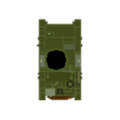
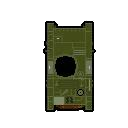
Улучшен интелект ботов

diff --git a/main.py b/main.py
@@ -68,42 +68,44 @@ class App:
         os.remove(tmp_path)
 
     def begin_game(self):
-        global end, bots
+        global end, bots, enemy, allied, player
         if self.selected_map != "":
             self.Maps.load_map()
             self.Ui.Labels.new("health", (-self.maxsize[0] / 2.5, self.maxsize[1] / 2.5), "center", "Здоровье: ", "black", ("Arial", 20, "bold"), group="game")
             self.Ui.Labels.new("recharge", (-self.maxsize[0] / 2.5, self.maxsize[1] / 2.5 - 25), "center", "Боеприпасы: ", "black", ("Arial", 20, "bold"), group="game")
             cls = self.Machines.get(self.selected_machine).cls
             if cls == "Plane":
-                self.player = PlayerPlane(self, self.selected_machine)
+                player = PlayerPlane(self, self.selected_machine)
             else:
-                self.player = PlayerTank(self, self.selected_machine)
-            self.player.link_keys()
+                player = PlayerTank(self, self.selected_machine)
+            player.link_keys()
             y = self.maxsize[1] / 2.5 - 50
             for i, bot in enumerate(self.Bots.allied_bots):
                 Bot = BotTankClass(self, bot["machine"], "allien", bot["intelect"], bot["name"])
-                Bot.goto(-self.maxsize[0] / 2.5 + 50, y + 50 * i)
+                Bot.goto(-self.maxsize[0] / 2.5 + 60, y - 60 * i)
                 Bot.machine_class.angle = 90
                 Bot.machine_class.angle_tower = 90
                 bots.append(Bot)
+                allied.append(Bot)
             for i, bot in enumerate(self.Bots.enemy_bots):
                 Bot = BotTankClass(self, bot["machine"], "enemy", bot["intelect"], bot["name"])
-                Bot.goto(self.maxsize[0] / 2.5 - 50, y + 50 * i)
+                Bot.goto(self.maxsize[0] / 2.5 - 60, y - 60 * i)
                 Bot.machine_class.angle = 270
                 Bot.machine_class.angle_tower = 270
                 bots.append(Bot)
+                enemy.append(Bot)
             self.Screen.onkeypress(self.Scenes.leave_game_window, "Escape")
             self.run_game = True
             end = time.time()
             while self.run_game:
                 for bot in bots:
                     bot.move()
-                self.player.move()
+                player.move()
                 self.move_bullet()
                 self.draw_bullet()
                 self.check_colision()
-                self.Ui.Labels.change_value("health", "text", f"Здоровье: {self.player.health}")
-                self.Ui.Labels.change_value("recharge", "text", f"Перезарядка {round(self.player.recharge, 1)}" if self.player.recharge != 0 or self.player.recharge < 0  else f"Боеприпасы: {int(self.player.capacity)}")
+                self.Ui.Labels.change_value("health", "text", f"Здоровье: {player.health}")
+                self.Ui.Labels.change_value("recharge", "text", f"Перезарядка {round(player.recharge, 1)}" if player.recharge != 0 or player.recharge < 0  else f"Боеприпасы: {int(player.capacity)}")
                 time.sleep(1 / self.fps)
                 self.update()
                 end = time.time()
@@ -137,7 +139,7 @@ class App:
         for bullet in self.bullets:
             self.bullet_drawer.goto(bullet["x"], bullet["y"])
             self.bullet_drawer.pendown()
-            self.bullet_drawer.setheading(bullet["angle"])
+            self.bullet_drawer.setheading(bullet["angle"] - 90)
             self.bullet_drawer.pensize(bullet["size"][1])
             self.bullet_drawer.forward(bullet["size"][0])
             self.bullet_drawer.penup()
@@ -282,7 +284,7 @@ class PlayerPlane:
         self.start = 0
         self.forward = False
         self.back = False
-        self.x = 0
+        self.x = -self.App.maxsize[0] / 2.5 + 50
         self.angle_speed = 0
         self.boost = 0 
         self.speed = 0
@@ -440,7 +442,6 @@ class PlayerPlane:
         self.App.Screen.onkeyrelease(None, "d")
         self.App.Screen.onkeypress(None, "a")
         self.App.Screen.onkeyrelease(None, "a")
-        self.App.Screen.onscreenclick(None, 1)
 
 class PlayerTank:
 
@@ -454,7 +455,7 @@ class PlayerTank:
         self.y = 0
         self.forward = False
         self.back = False
-        self.x = 0
+        self.x = -self.App.maxsize[0] / 2.5 + 30
         self.angle_speed = 0
         self.boost = 0 
         self.speed = 0
@@ -485,7 +486,7 @@ class PlayerTank:
         self.img_tower = turtle.Turtle()
         self.img_tower.penup()
         self.img_tower.speed(0)
-        self.tower_rotate_speed = self.data.tower_rotate_speed
+        self.tower_rotate_speed = self.data.tower_rotate_speed / 1.5
         self.x_tower_ofs = self.data.tower_x_offset
         self.y_tower_ofs = self.data.tower_y_offset
 
@@ -506,7 +507,7 @@ class PlayerTank:
                 for i in range(shell):
                     x = self.x + dist * math.sin(angle_rad) * i
                     y = self.y + dist * math.cos(angle_rad) * i
-                    self.App.new_bullet("allien", self.weapon["armor_projectile"], y_speed, x_speed, y, x, self.weapon["mass"], self.angle)
+                    self.App.new_bullet("allien", self.weapon["armor_projectile"], y_speed, x_speed, y, x, self.weapon["mass"], self.angle_tower)
                 used_bullet = shell
             else:
                 dist = 50 / int(self.weapon["shell_for_second"])
@@ -568,8 +569,8 @@ class PlayerTank:
         world_ofs_y = self.x_tower_ofs * math.sin(rad) + self.y_tower_ofs * math.cos(rad)
         tower_world_x = self.x + world_ofs_x
         tower_world_y = self.y + world_ofs_y
-        dx = event.x - (tower_world_x + self.App.maxsize[0] / 2)
-        dy = (self.App.maxsize[1] / 2 - event.y) - tower_world_y
+        dx = event.x - tower_world_x - self.App.maxsize[0] / 2
+        dy = self.App.maxsize[1] / 2 - event.y - tower_world_y
         self.move_tower(math.degrees(math.atan2(dx, dy)))
 
     def normalize_angle(self, angle):
@@ -655,67 +656,79 @@ class PlayerTank:
         canvas = self.App.Screen.getcanvas()
         canvas.bind("<Motion>", None)
 
-class BotTankClass:
-    targer = {"name": None,
-              "x": 0,
-              "y": 0}
-    free_to_action = True
-    main_action = None
-    action = None
-    step = -1
-    repeat = 0
+class event:
+    def __init__(self, x, y):
+        self.x = x
+        self.y = y
 
+class BotTankClass:
     def __init__(self, App, machine_name, team, intelect, name):
+        self.App = App
         self.machine_class = PlayerTank(App, machine_name)
         self.intelect = intelect
+        self.targer = None
+        self.free_to_action = True
+        self.main_action = None
+        self.action = self.nothing 
+        self.step = -1
+        self.repeat = 50
+        self.can_shoot = False
+        self.team = team
+        if self.intelect == 2:
+            self.machine_class.weapon["recharge"] *= 0.75
+            self.machine_class.speed_for_second *= 1.5
+        elif self.intelect == 1:
+            self.machine_class.weapon["recharge"] *= 0.9
 
-    def go_to_enemy():
+    def go_to_enemy():  
         pass
 
     def rotate_to_targer():
         pass
 
-    def rotate_tower_to_enemy():
-        pass
+    def nothing(self, nothing = "nothing"):
+        pass #неожиданно
 
-    def get_targer():
-        targer_bot = random(bots)
-        targer = {
-            "name": targer_bot["name"],
-            "x": targer_bot.machine_class.x,
-            "y": targer_bot.machine_class.y
-        }
+    def get_targer(self, two_self = None):
+        if not self.targer == None:
+            return
+        if self.team == "enemy":
+            self.targer = random.choice(allied + [player])
+        else:
+            self.targer = random.choice(enemy)
 
-    def get_and_rotate():
+    def help_to_allies(self):
         pass
 
     def shoot(self):
         self.machine_class.shoot(0, 0)
 
-    def slow_down():
-        pass
+    def forward(self):
+        self.machine_class.do_up_speed()
+
+    def backward(self):
+        self.machine_class.do_slow_down()
+
+    def stop(self):
+        self.machine_class.stop()
 
     def goto(self, x, y):
         self.machine_class.goto(x, y)
 
     def rotate_right(self):
-        self.machine_class.right
-        self.repeat = 200
+        self.machine_class.right()
 
     def rotate_left(self):
-        self.machine_class.left
-        self.repeat = 200
+        self.machine_class.left()
 
     def stop_rotate(self):
-        self.machine_class.stop_rotate
-        self.repeat = 200
+        self.machine_class.stop_rotate()
 
-    def check_is_rotate(self):
-        if self.machine_class.move_tower(self.machine_class.angle_tower):
-            self.repeat = -1
-        else:
-            self.get_and_rotate(self.targer["x"], self.targer["y"])
-            self.repeat = 1000
+    def check_is_rotate(self, two_self = None):
+        if hasattr(self.targer, 'machine_class'):
+                self.machine_class.get_and_rotate(event(self.targer.machine_class.x + (self.App.maxsize[0] / 2), (self.App.maxsize[1] / 2) - self.targer.machine_class.y))
+                return
+        self.machine_class.get_and_rotate(event(self.targer.x + (self.App.maxsize[0] / 2), (self.App.maxsize[1] / 2) - self.targer.y))
 
     def shoot_to_enemy(self):
         self.main_action = self.shoot_to_enemy
@@ -723,30 +736,45 @@ class BotTankClass:
             self.step = 0
             return
         if self.step == 1:
-            self.action = self.check_is_rotate
-            self.repeat = 1000
+            self.action = self.get_targer
+            self.repeat = 0   
         if self.step == 2:
+            self.action = self.check_is_rotate
+            self.repeat = 200
+        if self.step == 3:
             self.shoot()
             self.step = -1
 
-
-    stupid = [[go_to_enemy, False], [shoot, False], [rotate_right, False], [rotate_left, False]]
-    normal = [[go_to_enemy, False], [stop_rotate, False]]
-    great = [[shoot_to_enemy, False]]
+    stupid = [[shoot_to_enemy, 0], [go_to_enemy, 0], [shoot, 0], [rotate_right, 150], [stop_rotate, 5], [rotate_left, 150], [nothing, 200]]
+    normal = [[shoot_to_enemy, 0], [go_to_enemy, 0], [backward, 100], [forward, 150]]
+    great = [[help_to_allies, 0]]
 
     def move(self):
+        if (not self.action == self.nothing) and self.step == -1 and ((self.intelect == 2 and self.machine_class.recharge == 0) or (self.intelect == 1 and random.choice(1, 2, 3) == 1)):
+            self.can_shoot = True
+        else:
+            self.can_shoot = False
         if self.repeat >= 0:
             self.repeat -= 1
+            self.action(self)
         elif self.step == -1:
-            if self.intelect == 0:
-                self.action = random.choice(self.stupid)
-                self.action[0]()
+            if self.can_shoot:
+                self.shoot_to_enemy()
+            elif self.intelect == 0:
+                action_w_repeat = random.choice(self.stupid)
+                self.action = action_w_repeat[0]
+                self.repeat = action_w_repeat[1]
+                self.action(self)
             elif self.intelect == 1:
-                self.action = random.choice(self.normal)
-                self.action[0]()
+                action_w_repeat = random.choice(self.normal)
+                self.action = action_w_repeat[0]
+                self.repeat = action_w_repeat[1]
+                self.action(self)
             else:
-                self.action = random.choice(self.great)
-                self.action[0](self)
+                action_w_repeat = random.choice(self.great)
+                self.action = action_w_repeat[0]
+                self.repeat = action_w_repeat[1]
+                self.action(self)
         else:
             self.step += 1
             self.main_action()
@@ -1127,26 +1155,31 @@ class Scenes:
         self.App.update()
 
     def not_leave_game(self):
+        global player
         self.App.Ui.show_group("game")
         self.App.Ui.delete_group("leave_game")
         self.App.Screen.onkeypress(self.leave_game_window, "Escape")
-        self.App.Screen.onscreenclick(self.App.player.shoot, 1)
+        self.App.Screen.onscreenclick(player.shoot, 1)
         self.App.update()
 
     def leave_game(self):
+        global bots, enemy, allied, player
         self.App.bullet_drawer.clear()
         self.App.run_game = False
         self.App.Ui.delete_group("game")
         self.App.Ui.delete_group("leave_game")
         self.App.Screen.onkeypress(self.exit_window, "Escape")
         self.App.Screen.onscreenclick(self.App.click, 1)
-        self.App.player.base_img.hideturtle()
-        self.App.player.img_tower.hideturtle() if self.App.player.data.cls == "Tank" else None
-        self.App.player.unlink_keys()
-        self.App.player = None
+        player.base_img.hideturtle()
+        player.img_tower.hideturtle() if player.data.cls == "Tank" else None
+        player.unlink_keys()
+        player = None
         for bot in bots:
             bot.machine_class.base_img.hideturtle()
             bot.machine_class.img_tower.hideturtle() if bot.machine_class.data.cls == "Tank" else None
+        bots = []
+        enemy = []
+        allied = []
         self.play_menu()  
         self.App.update()
 
@@ -1288,7 +1321,7 @@ class Scenes:
         self.App.Ui.Labels.new("selected_map", ((self.half_x * 2 - 10 * 2 - self.x / 6) / 2, self.half_y - 10 * 14 - self.y / 8), "center", "выбранная карта: -", "white", ("Arial", 12, "bold"), "gamemode")
         self.App.Ui.Labels.new("modee", ((self.half_x * 2 - 10 * 2 - self.x / 6) / 2, self.half_y - 10 * 9 - self.y / 8), "center", "", "white", ("Arial", 13, "normal"), "gamemode")
         self.App.Ui.Buttons.new("select_map", "rectangle", [self.x / 6 - 10 * 6, 30], ((self.half_x * 2 - 10 * 2 - self.x / 6) / 2, self.half_y - 10 * 17 - self.y / 8), self.select_map_window, "black", 3, "black", "выбрать карту", ("Arial", 13, "bold"), "red", group = "gamemode")
-        self.App.Ui.Labels.new("bots_num", ((self.half_x * 2 - 10 * 2 - self.x / 6) / 2, self.half_y - 10 * 22 - self.y / 8), "center", "боты: 0" if len(self.App.Bots.allied_bots) == 0 and len(self.App.Bots.enemy_bots) == 0 else f"боты: {len(self.App.Bots.allied_bots) + len(self.App.Bots.enemy_bots) == 0}" , "white", ("Arial", 12, "bold"), "gamemode")
+        self.App.Ui.Labels.new("bots_num", ((self.half_x * 2 - 10 * 2 - self.x / 6) / 2, self.half_y - 10 * 22 - self.y / 8), "center", "боты: 0" if len(self.App.Bots.allied_bots) + len(self.App.Bots.enemy_bots) == 0 else f"боты: {len(self.App.Bots.allied_bots) + len(self.App.Bots.enemy_bots) == 0}" , "white", ("Arial", 12, "bold"), "gamemode")
         self.App.Ui.Buttons.new("bot_men", "rectangle", [self.x / 6 - 10 * 6, 40], ((self.half_x * 2 - 10 * 2 - self.x / 6) / 2, self.half_y - 10 * 25 - self.y / 8), self.bot_menu, "black", 3, "black", "настройки ботов", ("Arial", 13, "bold"), "red", group = "gamemode")
         self.App.Ui.Frames.new("machine_buttons", (42, 42, 42), [(-self.half_x + 10 + self.x / 4, -self.half_y + self.y / 4), (self.half_x - 10 - self.x / 4, -self.half_y + self.y / 4), 
                                 (self.half_x - 10 - self.x / 4, -self.half_y + self.y / 10), (-self.half_x + 10 + self.x / 4, -self.half_y + self.y / 10)])
@@ -1328,10 +1361,10 @@ class Scenes:
                 self.App.Ui.Buttons.new(f"allied_bot{i}", "rectangle", [size, size], (x, y), self.want_to_remove, "black", 2, "red", self.App.Machines.get(bot["machine"]).name, ("Arial", 13, "normal"), "red", action_arg = [i, "allied"], group = "allied_bots")
                 color = None
                 text = ""
-                if bot["intelect"] == 1:
+                if bot["intelect"] == 0:
                     color = (0, 200, 0)
                     text = "слабый"
-                elif bot["intelect"] == 2:
+                elif bot["intelect"] == 1:
                     color = (237, 118, 10)
                     text = "нормальный"
                 else:
@@ -1361,10 +1394,10 @@ class Scenes:
                 self.App.Ui.Buttons.new(f"enemy_bot{i}", "rectangle", [size, size], (x, y), self.want_to_remove, "black", 2, "red", self.App.Machines.get(bot["machine"]).name, ("Arial", 13, "normal"), "red", action_arg = [i, "enemy"], group = "enemy_bots")
                 color = None
                 text = ""
-                if bot["intelect"] == 1:
+                if bot["intelect"] == 0:
                     color = (0, 200, 0)
                     text = "слабый"
-                elif bot["intelect"] == 2:
+                elif bot["intelect"] == 1:
                     color = (237, 118, 14)
                     text = "нормальный"
                 else:
@@ -1413,9 +1446,9 @@ class Scenes:
                                                             (-self.half_x + 150 + half_size, -half_size), (-self.half_x + 150 - half_size, -half_size)], False, group="creation_menu")
         self.App.Ui.Labels.new("infoo", [-self.half_x + 150 , -half_size], "center", "", (250, 250, 250), ("Arial", 8, "normal"), "creation_menu")
         self.App.Ui.Labels.new("intelect_label", [0 , -half_size - 50], "center", "Интелект бота", (218, 40, 18), ("Arial", 22, "bold"), "creation_menu")
-        self.App.Ui.Buttons.new("low_intelect", "rectangle", [half_size * 2, size_two], (-self.half_x + 150, -half_size - 100), self.choose_bot_intelect, "black", 3, "red", "низкий", ("Arial", 15, "bold"), "green", action_arg = [1], group = "creation_menu")
-        self.App.Ui.Buttons.new("normal_intelect", "rectangle", [half_size * 2, size_two], (0, -half_size - 100), self.choose_bot_intelect, "black", 3, "red", "средний", ("Arial", 15, "bold"), "yellow", action_arg = [2], group = "creation_menu")
-        self.App.Ui.Buttons.new("high_intelect", "rectangle", [half_size * 2, size_two], (self.half_x - 150, -half_size - 100), self.choose_bot_intelect, "black", 3, "red", "высокий", ("Arial", 15, "bold"), "red", action_arg = [3], group = "creation_menu")   
+        self.App.Ui.Buttons.new("low_intelect", "rectangle", [half_size * 2, size_two], (-self.half_x + 150, -half_size - 100), self.choose_bot_intelect, "black", 3, "red", "низкий", ("Arial", 15, "bold"), "green", action_arg = [0], group = "creation_menu")
+        self.App.Ui.Buttons.new("normal_intelect", "rectangle", [half_size * 2, size_two], (0, -half_size - 100), self.choose_bot_intelect, "black", 3, "red", "средний", ("Arial", 15, "bold"), "yellow", action_arg = [1], group = "creation_menu")
+        self.App.Ui.Buttons.new("high_intelect", "rectangle", [half_size * 2, size_two], (self.half_x - 150, -half_size - 100), self.choose_bot_intelect, "black", 3, "red", "высокий", ("Arial", 15, "bold"), "red", action_arg = [2], group = "creation_menu")   
         self.App.Ui.Buttons.new("save_and_addd", "rectangle", [half_size * 2, size_two], (0, -half_size - 200), self.save_and_add, "black", 3, "red", "сохранить", ("Arial", 15, "bold"), "white", group = "creation_menu")
 
         self.App.update()
@@ -1645,7 +1678,10 @@ class Desert():
 
 version = "0.1 alpha"
 end = 0
-bots = []
+bots = []              #Глобальные переменные(используются в нескольких классах которые не имеют связь)
+allied = []
+player = None
+enemy = [] 
 
 def run():
     os.chdir(os.path.dirname(os.path.abspath(__file__)))
